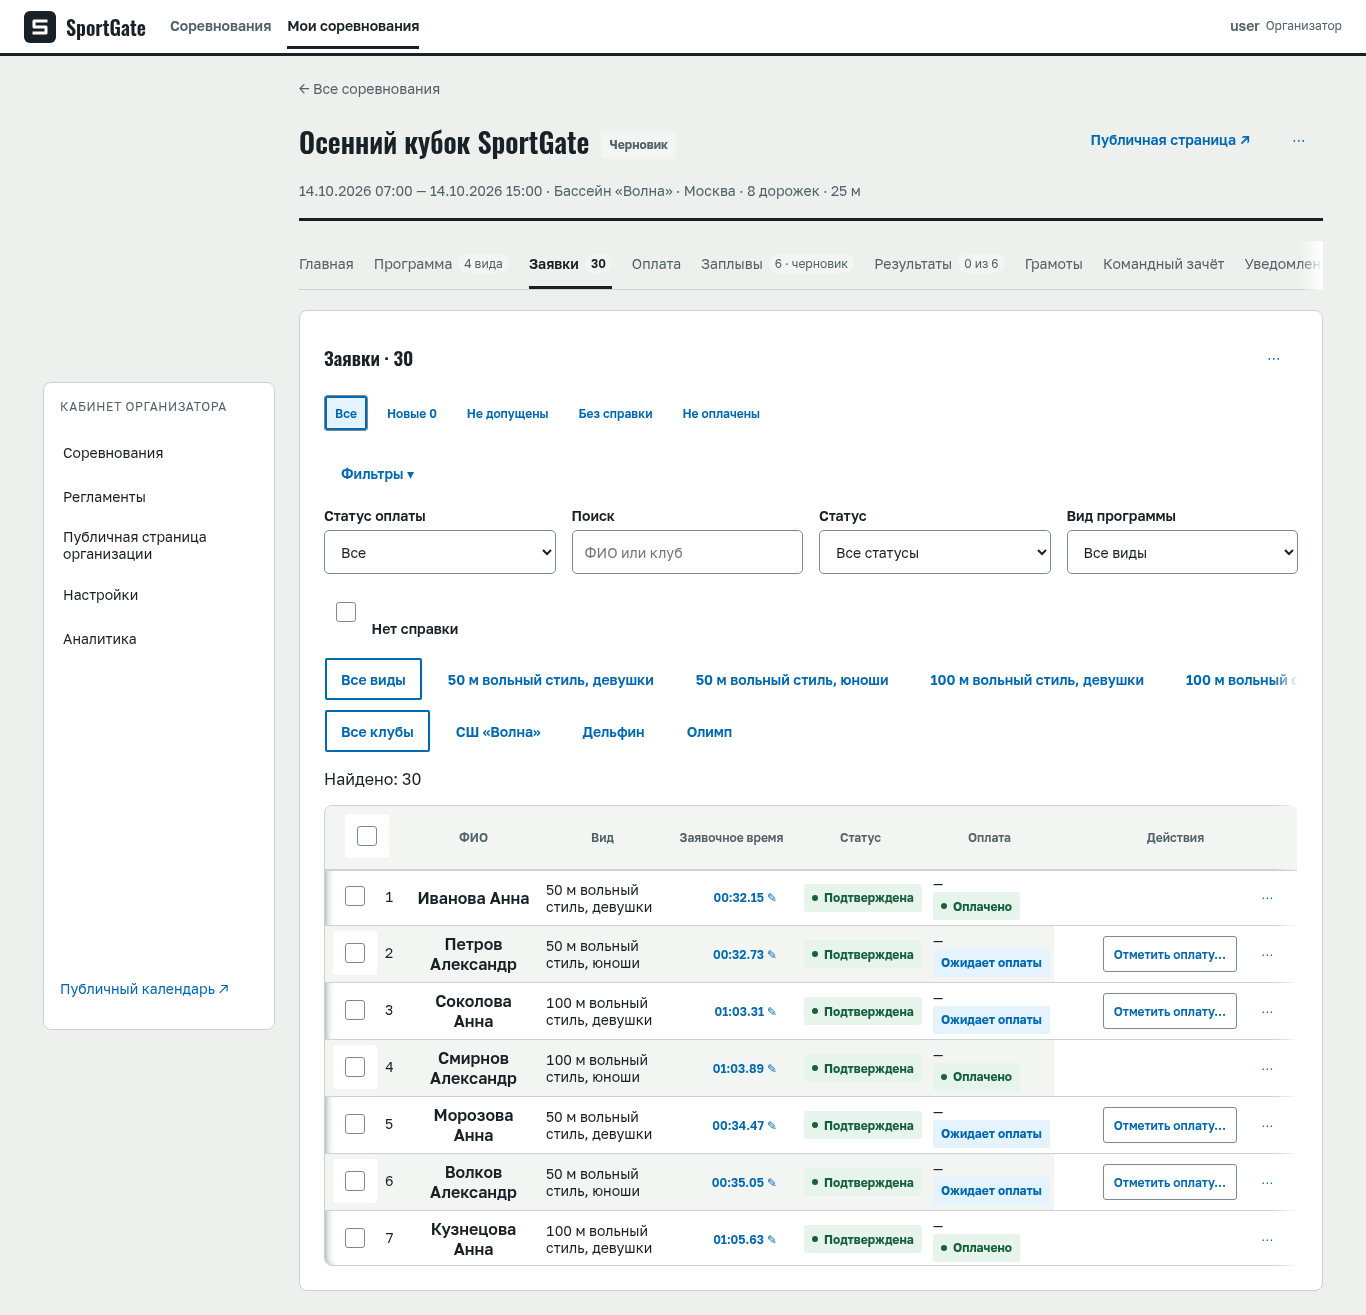
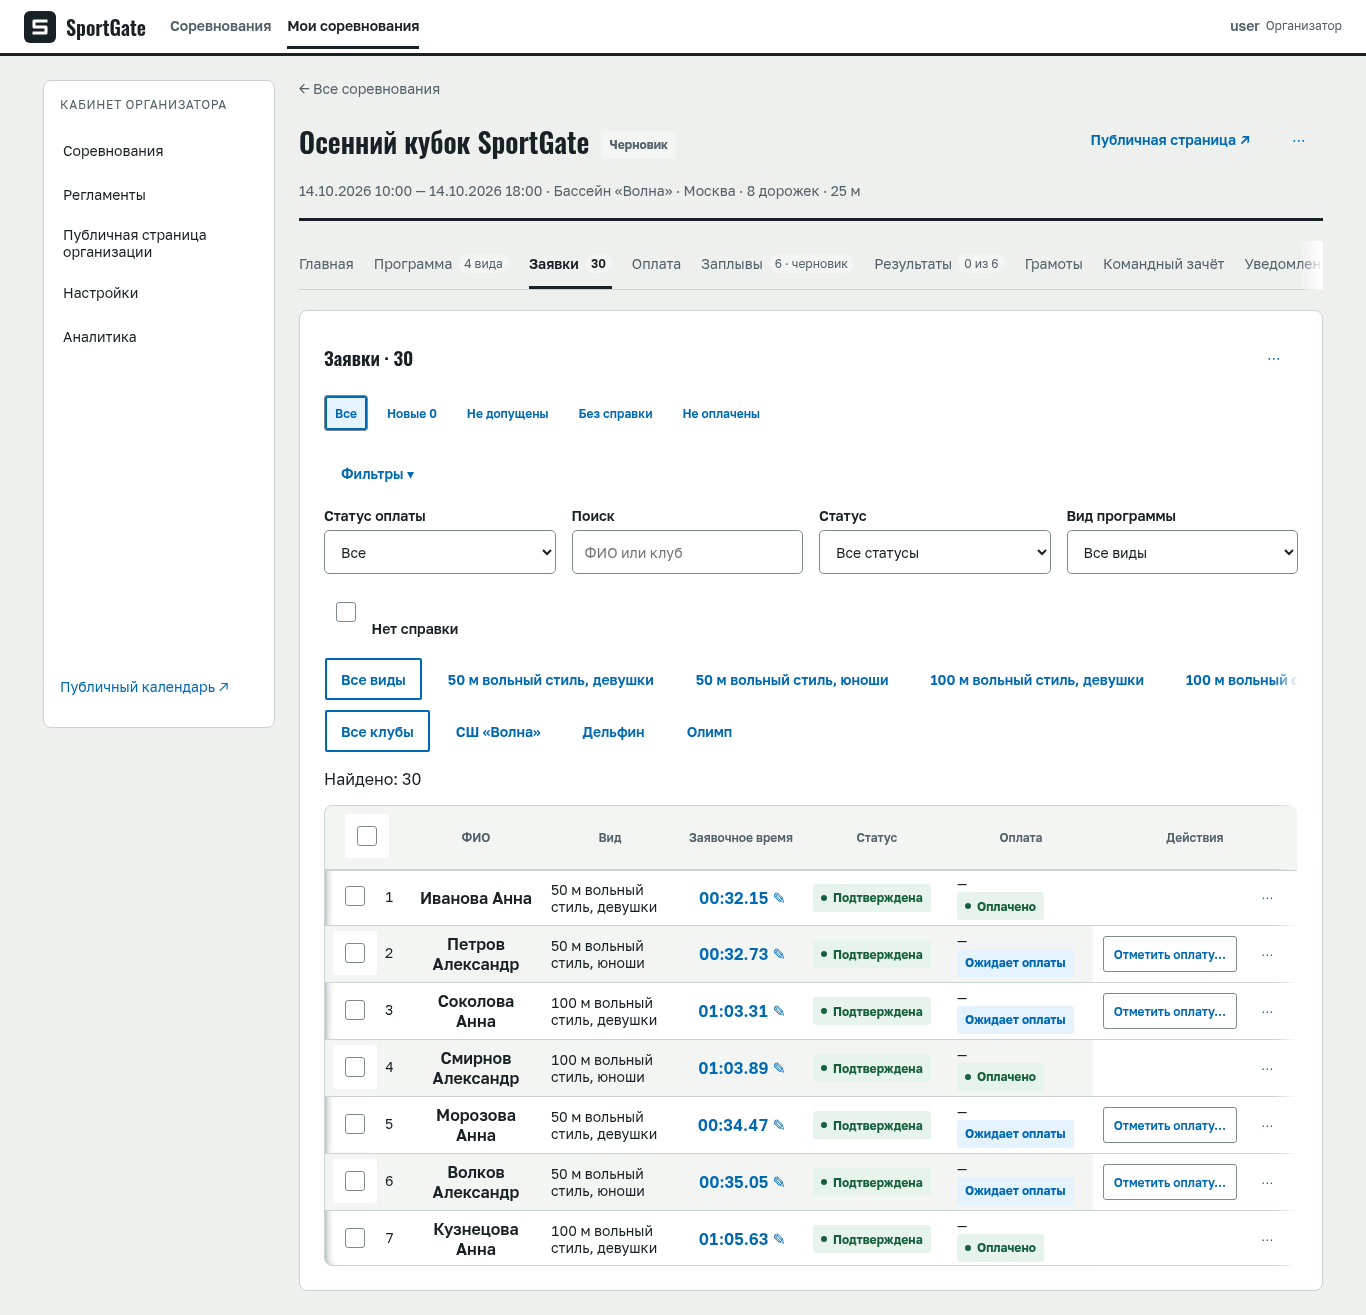
fix(organizer): preserve entries QA06 across responsive layouts

diff --git a/sport-platform/frontend/e2e/qa06-regression.spec.ts b/sport-platform/frontend/e2e/qa06-regression.spec.ts
@@ -207,12 +207,41 @@ for (const target of ['organizer', 'participant']) {
     expect(await page.evaluate(() => document.documentElement.scrollWidth)).toBe(375)
     if (target === 'organizer') {
       await navigate(page, `${base}/entries`)
-      const table = page.locator('[class*=table]').filter({ has: page.locator('table') }).first()
-      await expect(page.locator('table tbody tr').first()).toBeVisible()
-      expect(await page.locator('table td').first().evaluate(node => getComputedStyle(node).overflowWrap)).toBe('normal')
+      const table = page.getByRole('region', { name: 'Заявки участников', exact: true })
+      const row = table.locator('tbody tr').first()
+      await expect(row).toBeVisible()
+      expect(await row.locator('td').first().evaluate(node => getComputedStyle(node).overflowWrap)).toBe('normal')
+      // D04 keeps mobile entries as cards; check bounds and reachable actions at that breakpoint.
+      expect(await row.evaluate(node => getComputedStyle(node).display)).toBe('grid')
+      const seedTime = row.getByRole('button', { name: 'Изменить заявочное время', exact: true })
+      expect(await seedTime.evaluate(node => getComputedStyle(node).fontSize)).toBe('16px')
+      expect(await seedTime.evaluate(node => getComputedStyle(node).fontVariantNumeric)).toContain('tabular-nums')
+      expect(await table.evaluate(node => node.scrollWidth)).toBe(await table.evaluate(node => node.clientWidth))
+      const card = (await row.boundingBox())!
+      expect(card.x).toBeGreaterThanOrEqual(0)
+      expect(card.x + card.width).toBeLessThanOrEqual(375)
+      const actions = row.getByRole('button', { name: 'Ещё ▾', exact: true })
+      await actions.scrollIntoViewIfNeeded()
+      await expect(actions).toBeInViewport()
+      const actionTarget = await actions.evaluate(node => {
+        const rect = node.getBoundingClientRect()
+        return { width: rect.width, height: rect.height, reachable: node.contains(document.elementFromPoint(rect.x + rect.width / 2, rect.y + rect.height / 2)) }
+      })
+      expect(actionTarget.width).toBeGreaterThanOrEqual(44)
+      expect(actionTarget.height).toBeGreaterThanOrEqual(44)
+      expect(actionTarget.reachable).toBe(true)
+      expect(await page.evaluate(() => document.documentElement.scrollWidth)).toBe(375)
+      // Preserve the internal horizontal-scroll regression check at the tablet table breakpoint.
+      await page.setViewportSize({ width: 768, height: 1024 })
+      expect(await row.evaluate(node => getComputedStyle(node).display)).toBe('table-row')
+      await table.scrollIntoViewIfNeeded()
       await table.evaluate(node => { node.scrollLeft = node.scrollWidth })
       expect(await table.evaluate(node => node.scrollLeft)).toBeGreaterThan(0)
-      expect(await page.evaluate(() => document.documentElement.scrollWidth)).toBe(375)
+      expect(await row.locator('td').last().evaluate(node => getComputedStyle(node).position)).toBe('sticky')
+      await expect(actions).toBeInViewport()
+      const tableBounds = (await table.boundingBox())!
+      expect(tableBounds.x).toBeGreaterThanOrEqual(0)
+      expect(tableBounds.x + tableBounds.width).toBeLessThanOrEqual(768)
     }
   })
 }

diff --git a/sport-platform/frontend/src/features/organizer/Entries.module.css b/sport-platform/frontend/src/features/organizer/Entries.module.css
@@ -26,16 +26,18 @@
 .table table { width: 100%; table-layout: fixed; }
 .table :is(td, th) { overflow-wrap: anywhere; vertical-align: middle; }
 .table thead th { position: sticky; top: 0; z-index: 1; background: var(--surface-2); font-size: var(--text-xs); }
-.table .number { width: var(--control-h); }
+.table .number { width: var(--control-h); overflow-wrap: normal; }
 .table thead th:first-child { width: calc(var(--control-h) + var(--space-10)); }
+.table thead th:nth-child(8) { width: calc(var(--space-16) * 2); }
+.table thead th:nth-child(9), .table thead th:nth-child(10) { width: calc(var(--space-16) * 2 + var(--space-4)); }
 .selectAllLabel { display: none; }
 .table :is(td, th)[data-priority='extra'] { display: none; }
 .table .mobileMeta, .mobileLabel { display: none; }
 .name > small { display: block; font-size: var(--text-xs); font-weight: 400; }
 .name { font-size: var(--text-md); font-weight: var(--font-weight-medium); }
-.seedButton { font-size: var(--text-md); font-weight: var(--font-weight-medium); white-space: nowrap; }
+.table .seedButton { font-variant-numeric: var(--numeric-variant); font-size: var(--text-md); font-weight: var(--font-weight-medium); white-space: nowrap; }
 .seedForm { display: grid; gap: var(--space-2); min-width: 0; }
-.seedForm input { width: 100%; }
+.seedForm input { width: 100%; font-variant-numeric: var(--numeric-variant); }
 .seedForm .actions { flex-wrap: wrap; }
 .payment > span { display: block; }
 .table .rowActions { position: sticky; right: 0; background: var(--surface-1); box-shadow: var(--shadow-drawer); }
@@ -51,15 +53,17 @@
 @media (min-width: 768px) {
   .card { padding: var(--space-6); }
   .filters { grid-template-columns: repeat(2, minmax(0, 1fr)); }
-  .table table { min-width: calc(var(--space-16) * 12); }
+  .table table { min-width: calc(var(--space-16) * 15); }
 }
 @media (min-width: 1024px) {
   .filters { grid-template-columns: repeat(4, minmax(0, 1fr)); }
+}
+@media (min-width: 1366px) {
   .table table { min-width: 100%; }
 }
 @media (max-width: 1366px) {
   .table :is(td, th)[data-priority='low'] { display: none; }
-  .table thead th:last-child { width: 25%; }
+  .table thead th:last-child { width: 21%; }
 }
 @media (min-width: 1367px) {
   .table :is(td, th)[data-priority='extra'] { display: table-cell; }
